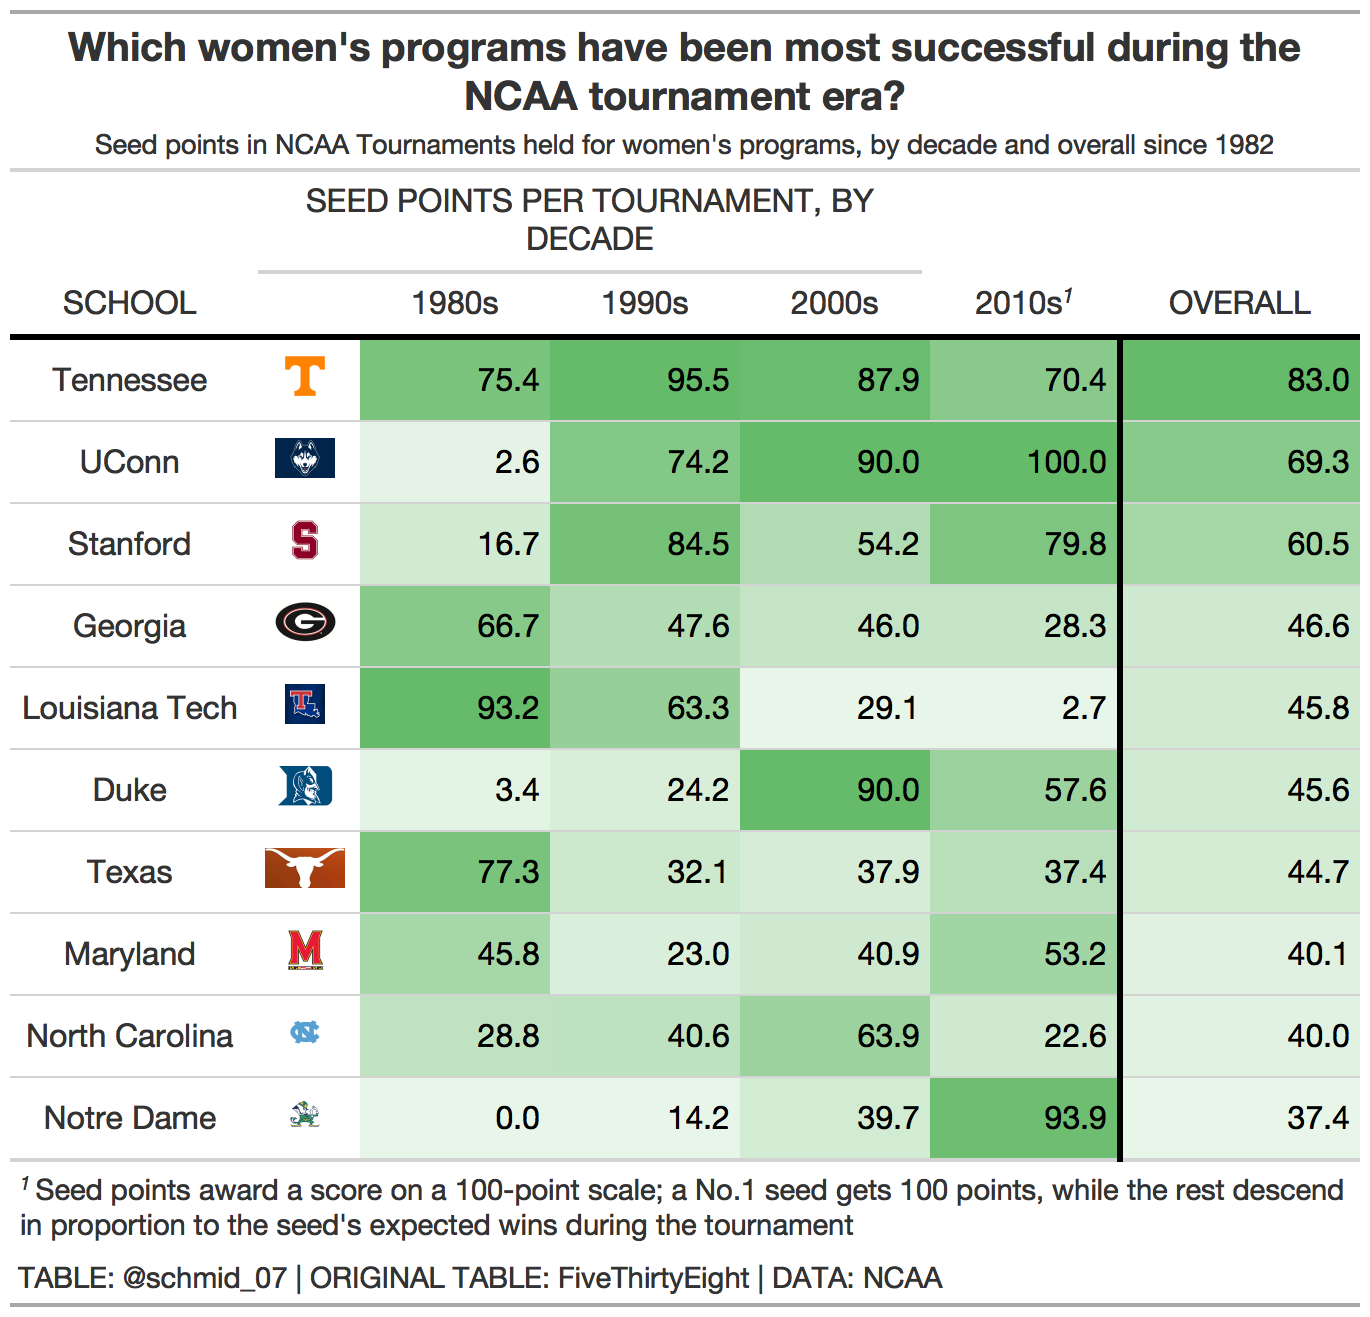
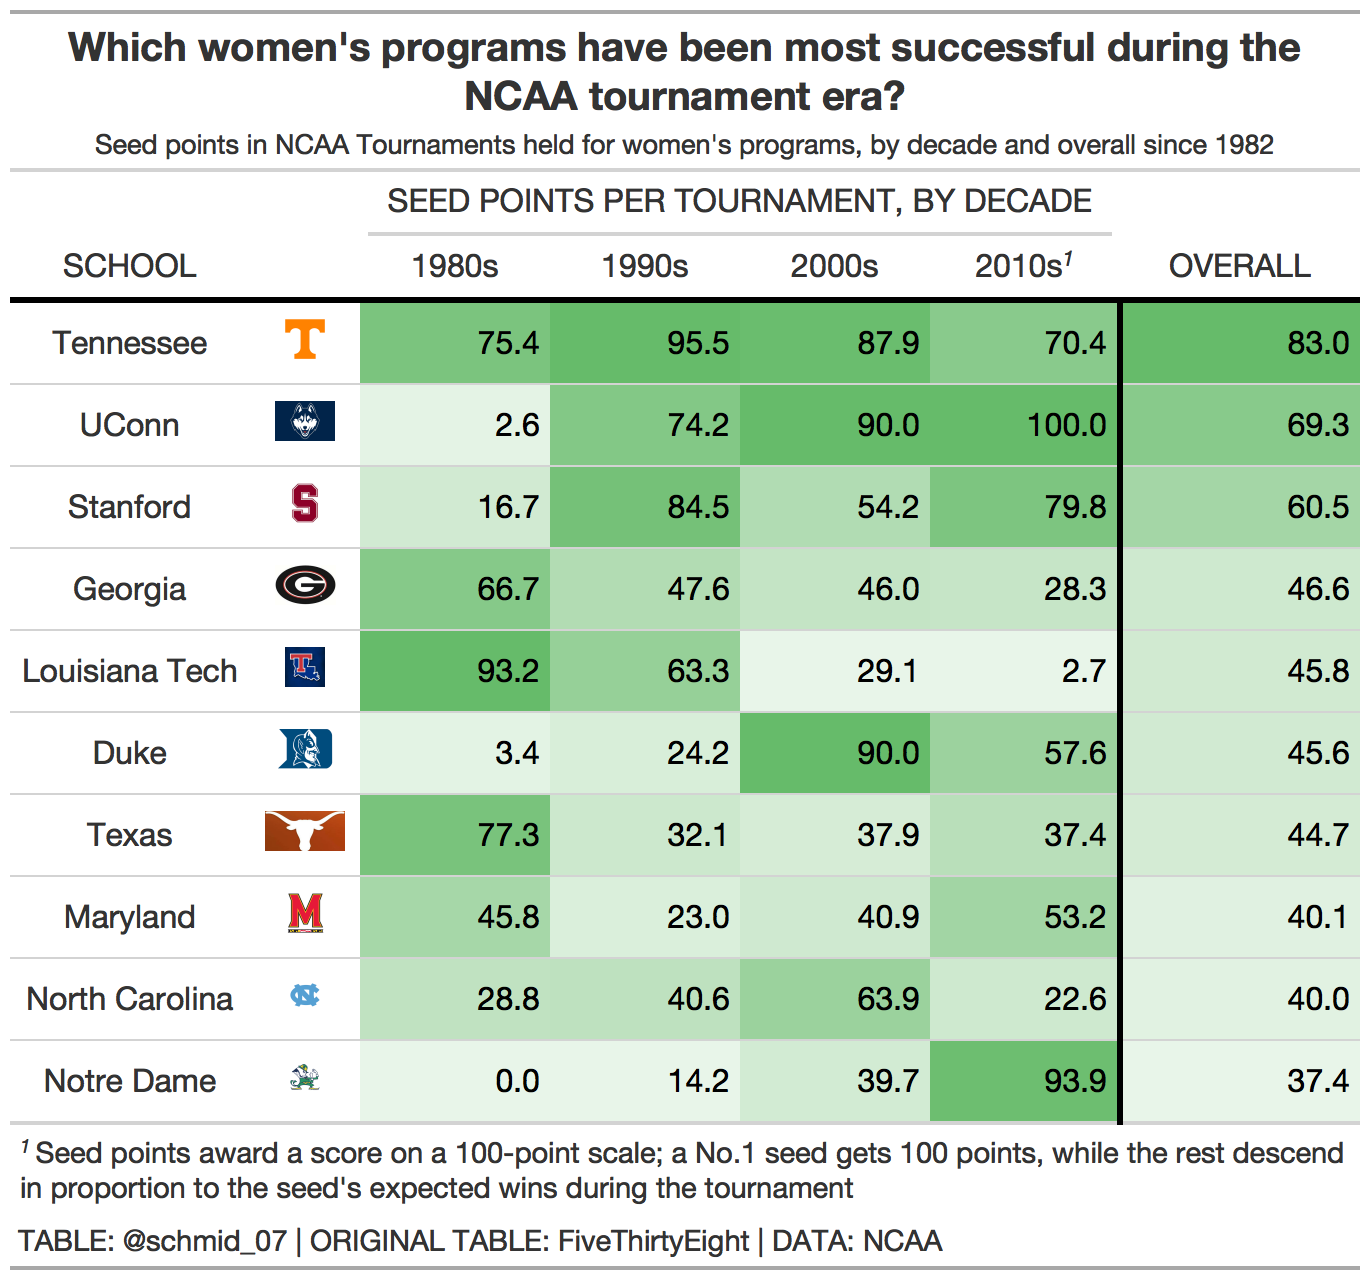
Add files via upload

diff --git a/plots/tt_2020_week41.html b/plots/tt_2020_week41.html
@@ -11,7 +11,7 @@
   font-family: -apple-system, BlinkMacSystemFont, 'Segoe UI', Roboto, Oxygen, Ubuntu, Cantarell, 'Helvetica Neue', 'Fira Sans', 'Droid Sans', Arial, sans-serif;
 }
 
-#ckbyukuytz .gt_table {
+#foiuanlrty .gt_table {
   display: table;
   border-collapse: collapse;
   margin-left: auto;
@@ -36,7 +36,7 @@
   border-left-color: #D3D3D3;
 }
 
-#ckbyukuytz .gt_heading {
+#foiuanlrty .gt_heading {
   background-color: #FFFFFF;
   text-align: center;
   border-bottom-color: #FFFFFF;
@@ -48,7 +48,7 @@
   border-right-color: #D3D3D3;
 }
 
-#ckbyukuytz .gt_title {
+#foiuanlrty .gt_title {
   color: #333333;
   font-size: 125%;
   font-weight: initial;
@@ -58,7 +58,7 @@
   border-bottom-width: 0;
 }
 
-#ckbyukuytz .gt_subtitle {
+#foiuanlrty .gt_subtitle {
   color: #333333;
   font-size: 85%;
   font-weight: initial;
@@ -68,13 +68,13 @@
   border-top-width: 0;
 }
 
-#ckbyukuytz .gt_bottom_border {
+#foiuanlrty .gt_bottom_border {
   border-bottom-style: solid;
   border-bottom-width: 2px;
   border-bottom-color: #D3D3D3;
 }
 
-#ckbyukuytz .gt_col_headings {
+#foiuanlrty .gt_col_headings {
   border-top-style: solid;
   border-top-width: 2px;
   border-top-color: #D3D3D3;
@@ -89,7 +89,7 @@
   border-right-color: #D3D3D3;
 }
 
-#ckbyukuytz .gt_col_heading {
+#foiuanlrty .gt_col_heading {
   color: #333333;
   background-color: #FFFFFF;
   font-size: 100%;
@@ -109,7 +109,7 @@
   overflow-x: hidden;
 }
 
-#ckbyukuytz .gt_column_spanner_outer {
+#foiuanlrty .gt_column_spanner_outer {
   color: #333333;
   background-color: #FFFFFF;
   font-size: 100%;
@@ -121,15 +121,15 @@
   padding-right: 4px;
 }
 
-#ckbyukuytz .gt_column_spanner_outer:first-child {
+#foiuanlrty .gt_column_spanner_outer:first-child {
   padding-left: 0;
 }
 
-#ckbyukuytz .gt_column_spanner_outer:last-child {
+#foiuanlrty .gt_column_spanner_outer:last-child {
   padding-right: 0;
 }
 
-#ckbyukuytz .gt_column_spanner {
+#foiuanlrty .gt_column_spanner {
   border-bottom-style: solid;
   border-bottom-width: 2px;
   border-bottom-color: #D3D3D3;
@@ -141,7 +141,7 @@
   width: 100%;
 }
 
-#ckbyukuytz .gt_group_heading {
+#foiuanlrty .gt_group_heading {
   padding: 8px;
   color: #333333;
   background-color: #FFFFFF;
@@ -163,7 +163,7 @@
   vertical-align: middle;
 }
 
-#ckbyukuytz .gt_empty_group_heading {
+#foiuanlrty .gt_empty_group_heading {
   padding: 0.5px;
   color: #333333;
   background-color: #FFFFFF;
@@ -178,15 +178,15 @@
   vertical-align: middle;
 }
 
-#ckbyukuytz .gt_from_md > :first-child {
+#foiuanlrty .gt_from_md > :first-child {
   margin-top: 0;
 }
 
-#ckbyukuytz .gt_from_md > :last-child {
+#foiuanlrty .gt_from_md > :last-child {
   margin-bottom: 0;
 }
 
-#ckbyukuytz .gt_row {
+#foiuanlrty .gt_row {
   padding-top: 8px;
   padding-bottom: 8px;
   padding-left: 5px;
@@ -205,7 +205,7 @@
   overflow-x: hidden;
 }
 
-#ckbyukuytz .gt_stub {
+#foiuanlrty .gt_stub {
   color: #333333;
   background-color: #FFFFFF;
   font-size: 100%;
@@ -217,7 +217,7 @@
   padding-left: 12px;
 }
 
-#ckbyukuytz .gt_summary_row {
+#foiuanlrty .gt_summary_row {
   color: #333333;
   background-color: #FFFFFF;
   text-transform: inherit;
@@ -227,7 +227,7 @@
   padding-right: 5px;
 }
 
-#ckbyukuytz .gt_first_summary_row {
+#foiuanlrty .gt_first_summary_row {
   padding-top: 8px;
   padding-bottom: 8px;
   padding-left: 5px;
@@ -237,7 +237,7 @@
   border-top-color: #D3D3D3;
 }
 
-#ckbyukuytz .gt_grand_summary_row {
+#foiuanlrty .gt_grand_summary_row {
   color: #333333;
   background-color: #FFFFFF;
   text-transform: inherit;
@@ -247,7 +247,7 @@
   padding-right: 5px;
 }
 
-#ckbyukuytz .gt_first_grand_summary_row {
+#foiuanlrty .gt_first_grand_summary_row {
   padding-top: 8px;
   padding-bottom: 8px;
   padding-left: 5px;
@@ -257,11 +257,11 @@
   border-top-color: #D3D3D3;
 }
 
-#ckbyukuytz .gt_striped {
+#foiuanlrty .gt_striped {
   background-color: rgba(128, 128, 128, 0.05);
 }
 
-#ckbyukuytz .gt_table_body {
+#foiuanlrty .gt_table_body {
   border-top-style: solid;
   border-top-width: 2px;
   border-top-color: #D3D3D3;
@@ -270,7 +270,7 @@
   border-bottom-color: #D3D3D3;
 }
 
-#ckbyukuytz .gt_footnotes {
+#foiuanlrty .gt_footnotes {
   color: #333333;
   background-color: #FFFFFF;
   border-bottom-style: none;
@@ -284,13 +284,13 @@
   border-right-color: #D3D3D3;
 }
 
-#ckbyukuytz .gt_footnote {
+#foiuanlrty .gt_footnote {
   margin: 0px;
   font-size: 90%;
   padding: 4px;
 }
 
-#ckbyukuytz .gt_sourcenotes {
+#foiuanlrty .gt_sourcenotes {
   color: #333333;
   background-color: #FFFFFF;
   border-bottom-style: none;
@@ -304,46 +304,46 @@
   border-right-color: #D3D3D3;
 }
 
-#ckbyukuytz .gt_sourcenote {
+#foiuanlrty .gt_sourcenote {
   font-size: 90%;
   padding: 4px;
 }
 
-#ckbyukuytz .gt_left {
+#foiuanlrty .gt_left {
   text-align: left;
 }
 
-#ckbyukuytz .gt_center {
+#foiuanlrty .gt_center {
   text-align: center;
 }
 
-#ckbyukuytz .gt_right {
+#foiuanlrty .gt_right {
   text-align: right;
   font-variant-numeric: tabular-nums;
 }
 
-#ckbyukuytz .gt_font_normal {
+#foiuanlrty .gt_font_normal {
   font-weight: normal;
 }
 
-#ckbyukuytz .gt_font_bold {
+#foiuanlrty .gt_font_bold {
   font-weight: bold;
 }
 
-#ckbyukuytz .gt_font_italic {
+#foiuanlrty .gt_font_italic {
   font-style: italic;
 }
 
-#ckbyukuytz .gt_super {
+#foiuanlrty .gt_super {
   font-size: 65%;
 }
 
-#ckbyukuytz .gt_footnote_marks {
+#foiuanlrty .gt_footnote_marks {
   font-style: italic;
   font-size: 65%;
 }
 </style>
-<div id="ckbyukuytz" style="overflow-x:auto;overflow-y:auto;width:auto;height:auto;"><table class="gt_table" style="table-layout: fixed;; width: 0px">
+<div id="foiuanlrty" style="overflow-x:auto;overflow-y:auto;width:auto;height:auto;"><table class="gt_table" style="table-layout: fixed;; width: 0px">
   <colgroup>
     <col style="width:120px;"/>
     <col style="width:55px;"/>
@@ -364,17 +364,17 @@
   <thead class="gt_col_headings">
     <tr>
       <th class="gt_col_heading gt_center gt_columns_bottom_border" rowspan="2" colspan="1" style="border-bottom-width: 3px; border-bottom-style: solid; border-bottom-color: black;">SCHOOL</th>
+      <th class="gt_col_heading gt_center gt_columns_bottom_border" rowspan="2" colspan="1" style="border-bottom-width: 3px; border-bottom-style: solid; border-bottom-color: black;"></th>
       <th class="gt_center gt_columns_top_border gt_column_spanner_outer" rowspan="1" colspan="4">
         <span class="gt_column_spanner">SEED POINTS PER TOURNAMENT, BY DECADE</span>
       </th>
-      <th class="gt_col_heading gt_center gt_columns_bottom_border" rowspan="2" colspan="1" style="border-bottom-width: 3px; border-bottom-style: solid; border-bottom-color: black;">2010s<sup class="gt_footnote_marks">1</sup></th>
       <th class="gt_col_heading gt_center gt_columns_bottom_border" rowspan="2" colspan="1" style="border-bottom-width: 3px; border-bottom-style: solid; border-bottom-color: black;">OVERALL</th>
     </tr>
     <tr>
-      <th class="gt_col_heading gt_columns_bottom_border gt_center" rowspan="1" colspan="1" style="border-bottom-width: 3px; border-bottom-style: solid; border-bottom-color: black;"></th>
       <th class="gt_col_heading gt_columns_bottom_border gt_center" rowspan="1" colspan="1" style="border-bottom-width: 3px; border-bottom-style: solid; border-bottom-color: black;">1980s</th>
       <th class="gt_col_heading gt_columns_bottom_border gt_center" rowspan="1" colspan="1" style="border-bottom-width: 3px; border-bottom-style: solid; border-bottom-color: black;">1990s</th>
       <th class="gt_col_heading gt_columns_bottom_border gt_center" rowspan="1" colspan="1" style="border-bottom-width: 3px; border-bottom-style: solid; border-bottom-color: black;">2000s</th>
+      <th class="gt_col_heading gt_columns_bottom_border gt_center" rowspan="1" colspan="1" style="border-bottom-width: 3px; border-bottom-style: solid; border-bottom-color: black;">2010s<sup class="gt_footnote_marks">1</sup></th>
     </tr>
   </thead>
   <tbody class="gt_table_body">
